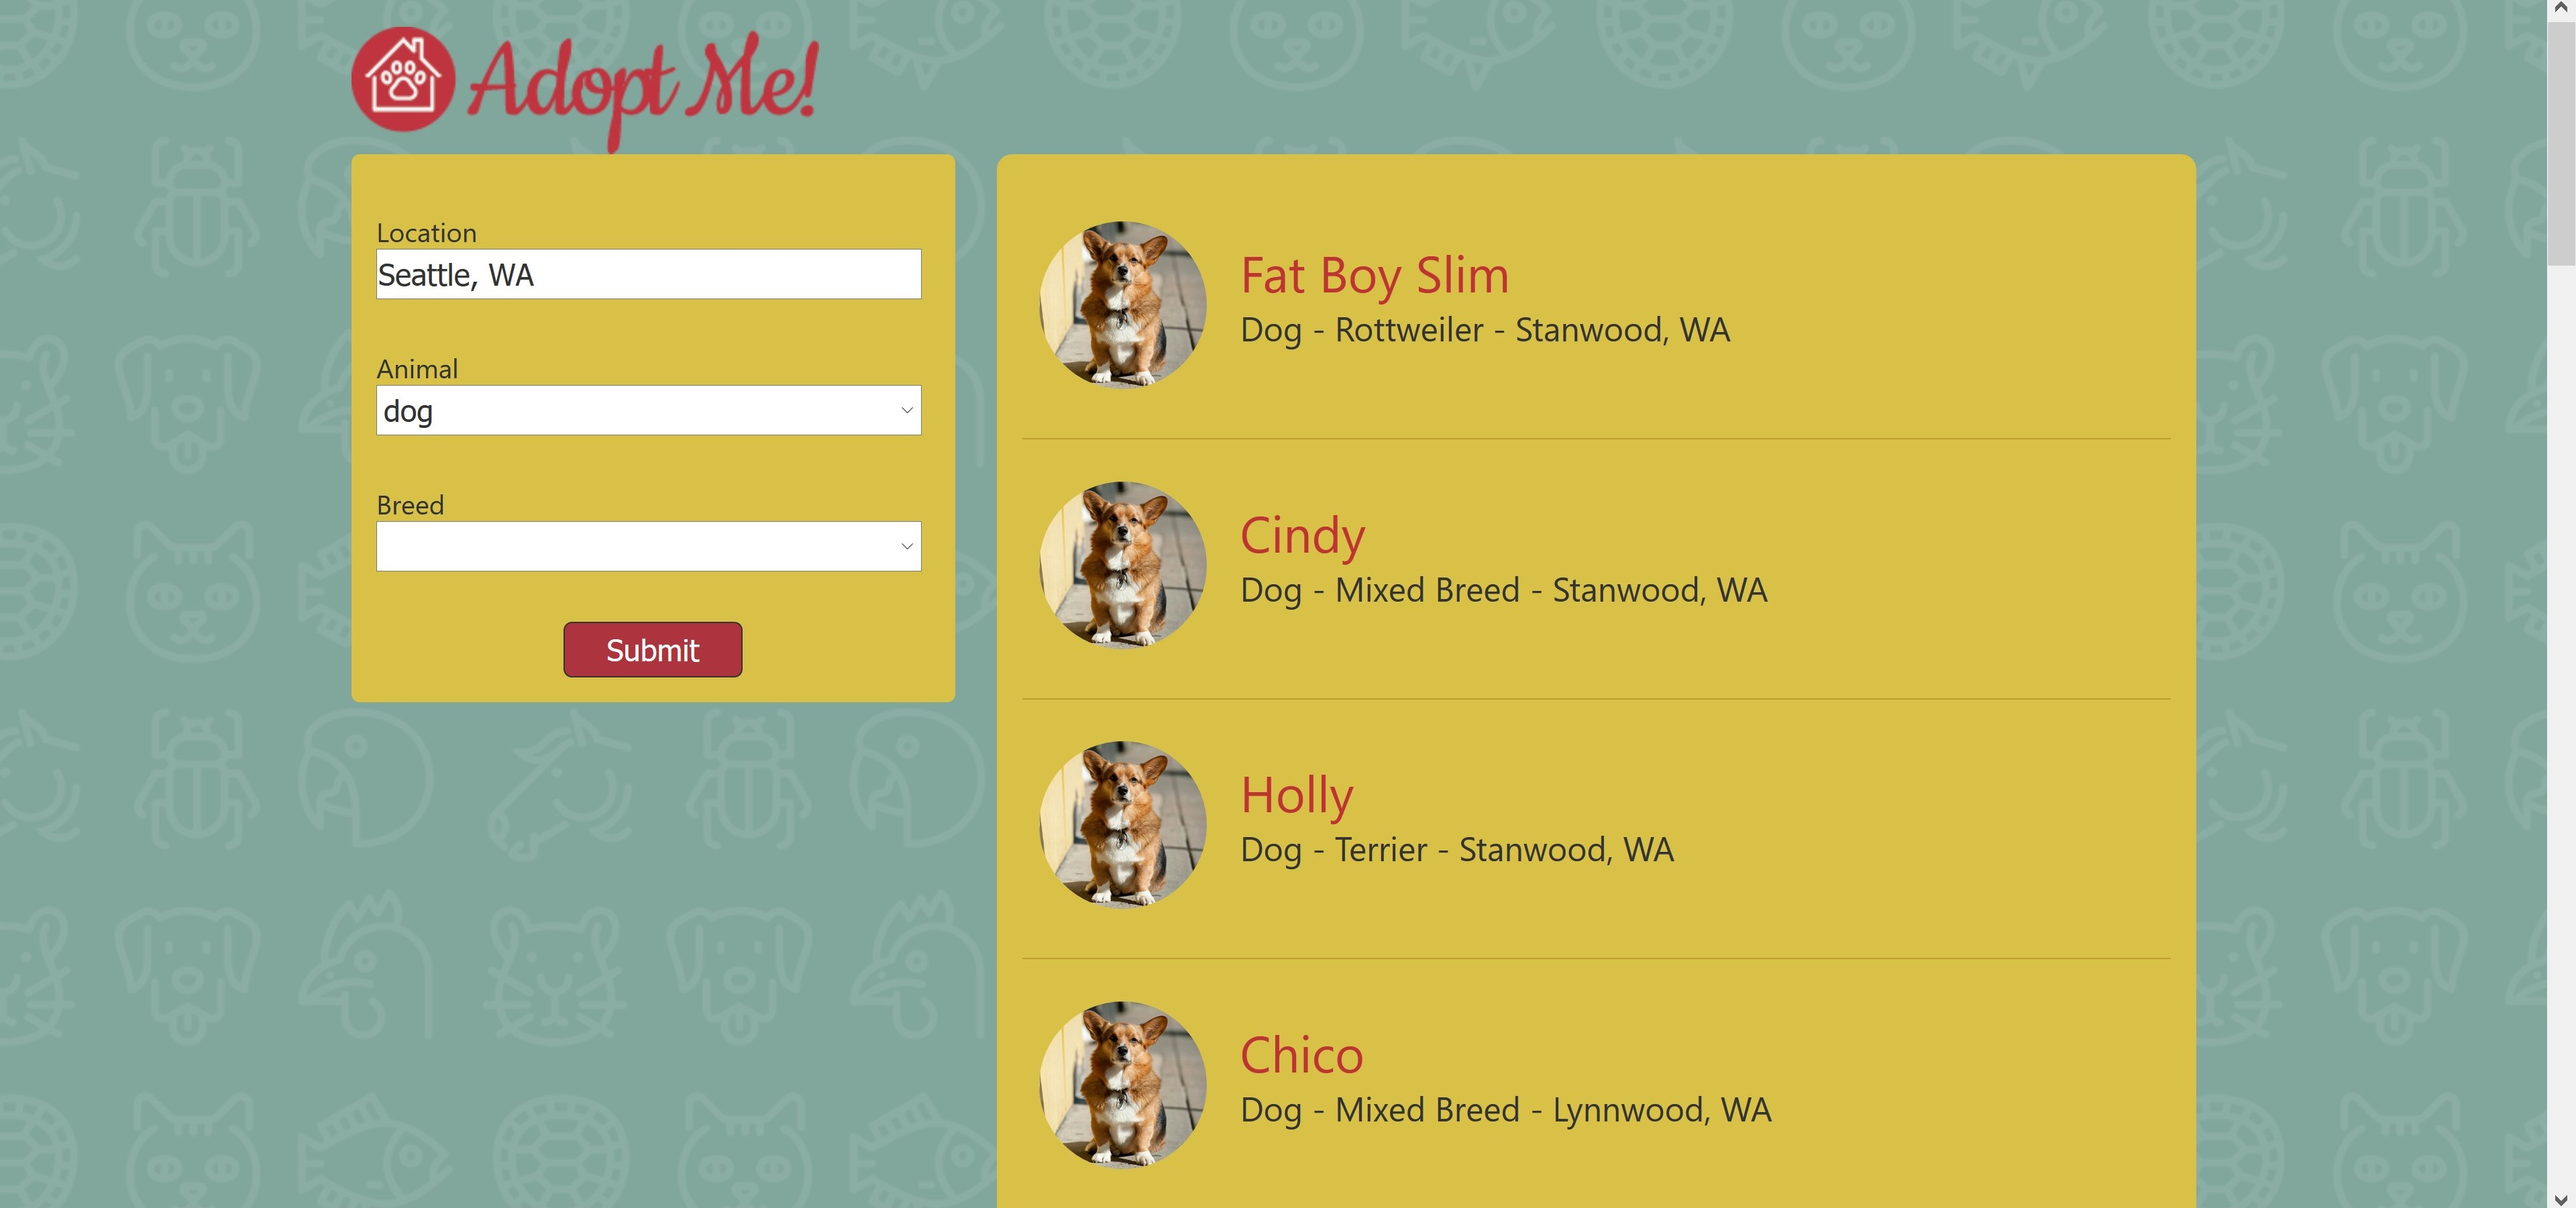
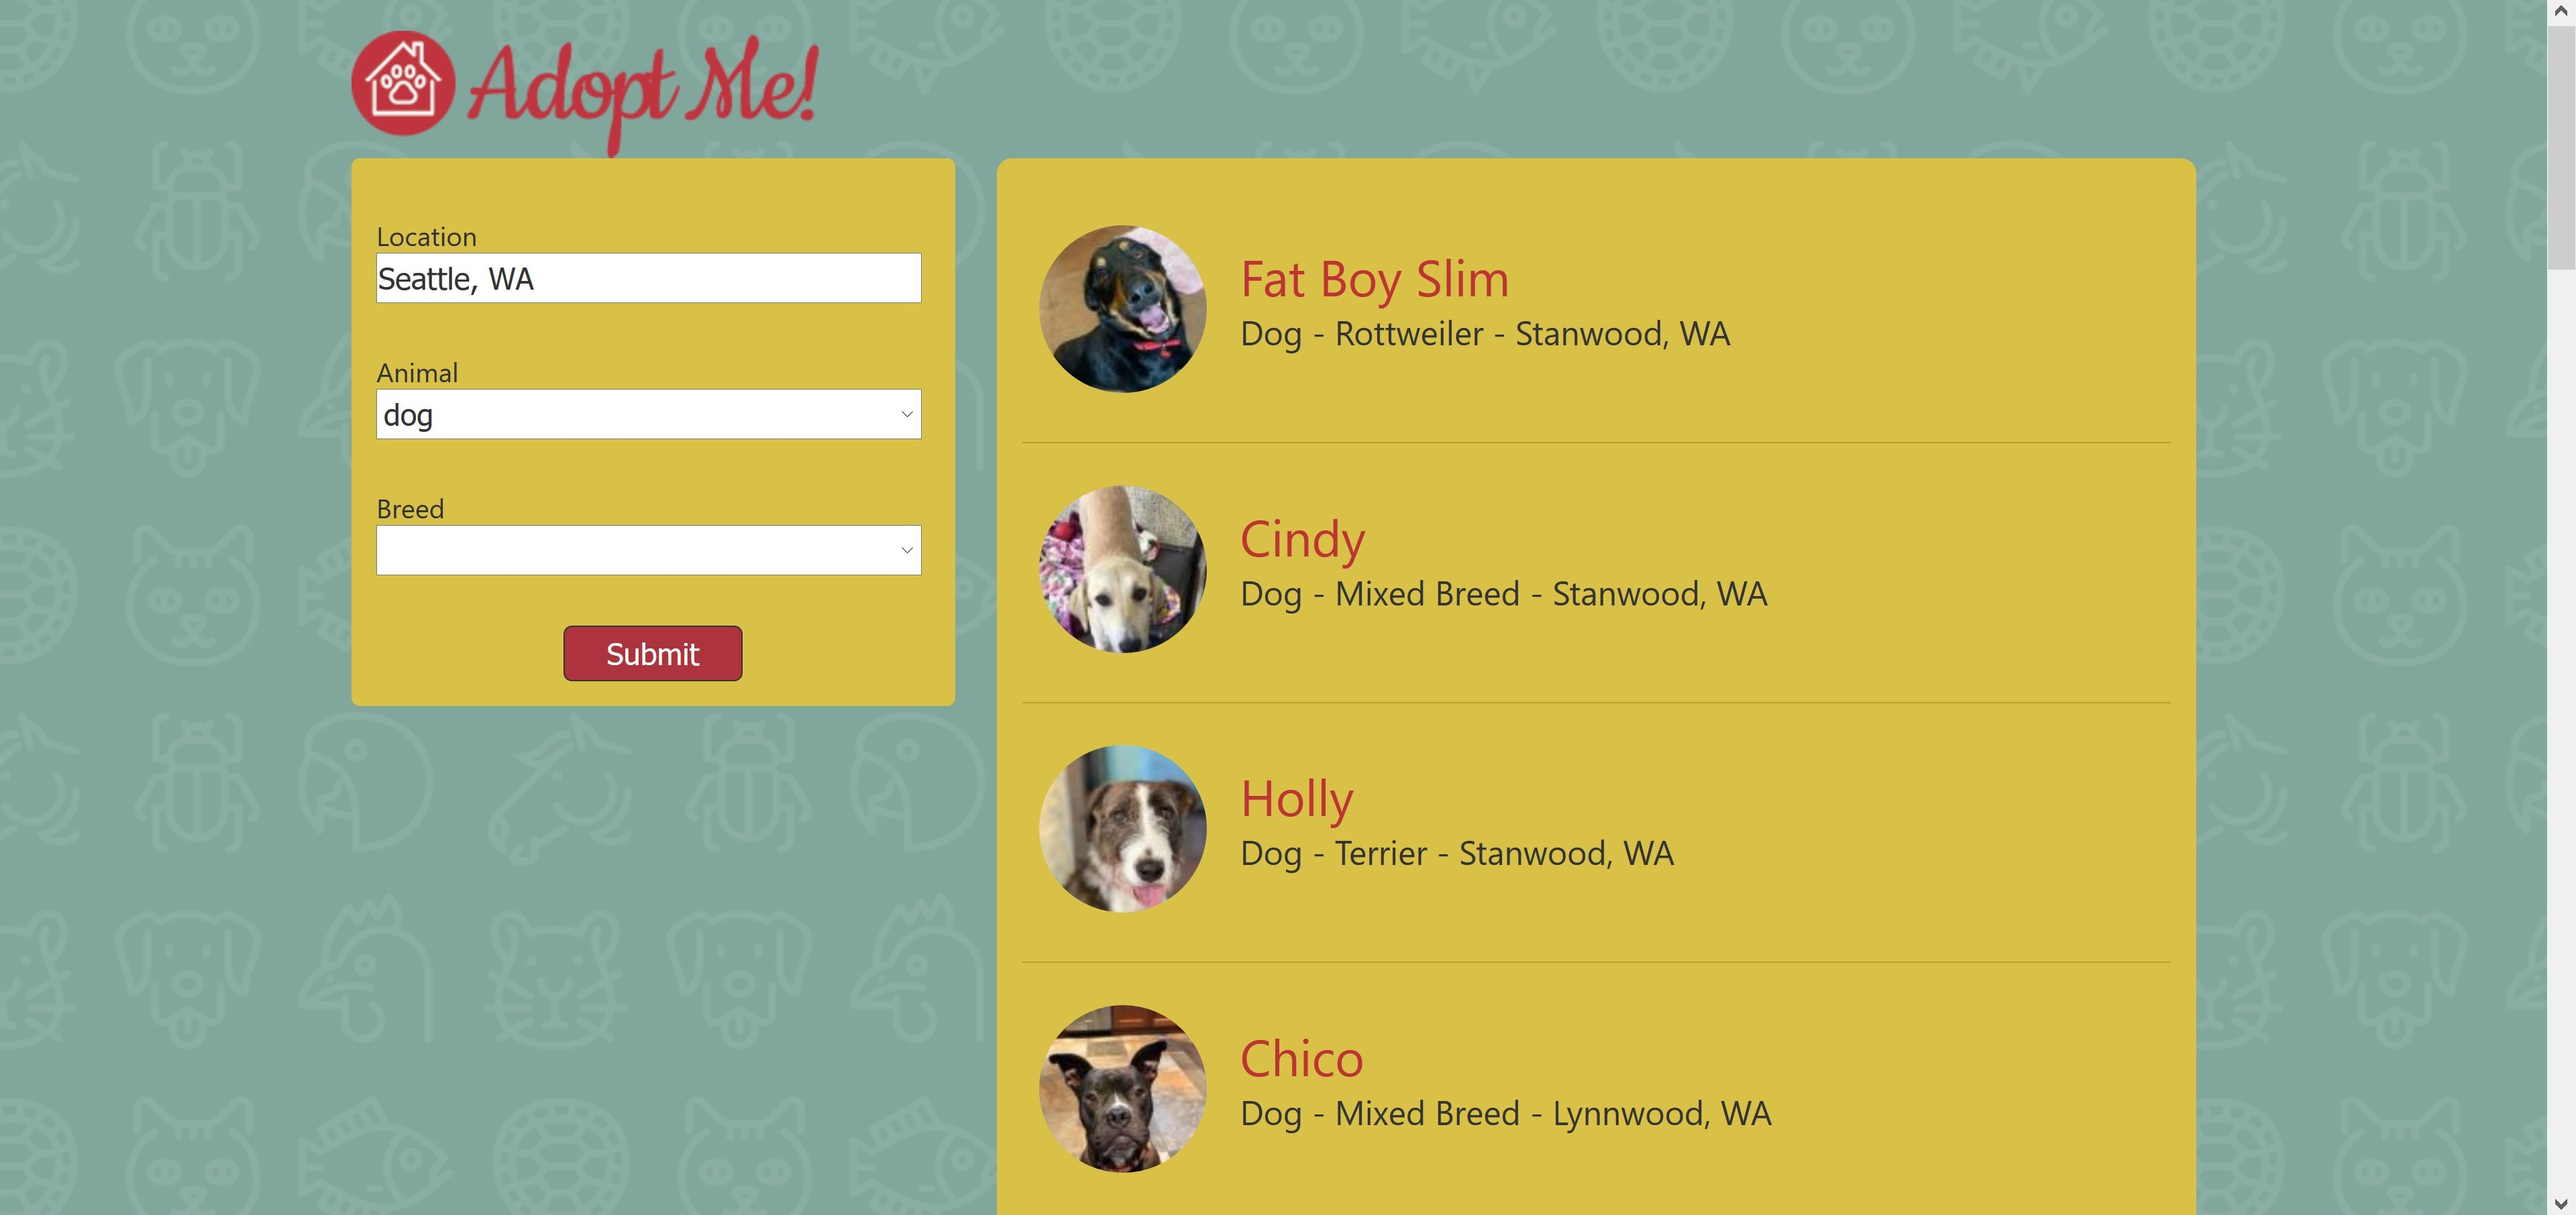
adding @babel/plugin-proposal-class-properties to the project

diff --git a/src/components/Details.js b/src/components/Details.js
@@ -1,11 +1,48 @@
-import React from "react";
+import React, { Component } from "react";
+import pet from "@frontendmasters/pet";
 
-const Details = props => {
-  return (
-    <pre>
-      <code>{JSON.stringify(props, null, 4)}</code>
-    </pre>
-  );
-};
+class Details extends Component {
+  // using @babel/plugin-proposal-class-properties
+  state = {
+    loading: true
+  };
+
+  componentDidMount() {
+    pet.animal(this.props.id).then(
+      ({ animal }) => {
+        this.setState({
+          name: animal.name,
+          animal: animal.type,
+          location: `${animal.contact.address.city}, ${animal.contact.address.state}`,
+          description: animal.description,
+          media: animal.photos,
+          breed: animal.breeds.primary,
+          loading: false
+        });
+      },
+      // eslint-disable-next-line no-console
+      error => console.log(error)
+    );
+  }
+
+  render() {
+    if (this.state.loading) {
+      return <h1>Loading...</h1>;
+    }
+
+    const { animal, breed, location, description, name } = this.state;
+
+    return (
+      <div className="details">
+        <div>
+          <h1>{name}</h1>
+          <h2>{`${animal} - ${breed} - ${location}`}</h2>
+          <button>Adopt {name}</button>
+          <p>{description}</p>
+        </div>
+      </div>
+    );
+  }
+}
 
 export default Details;

diff --git a/src/components/Results.js b/src/components/Results.js
@@ -14,7 +14,7 @@ const Results = ({ pets }) => {
             animal={pet.type}
             name={pet.name}
             breed={pet.breeds.primary}
-            media={pet.photo}
+            media={pet.photos}
             location={`${pet.contact.address.city}, ${pet.contact.address.state}`}
           />
         ))
